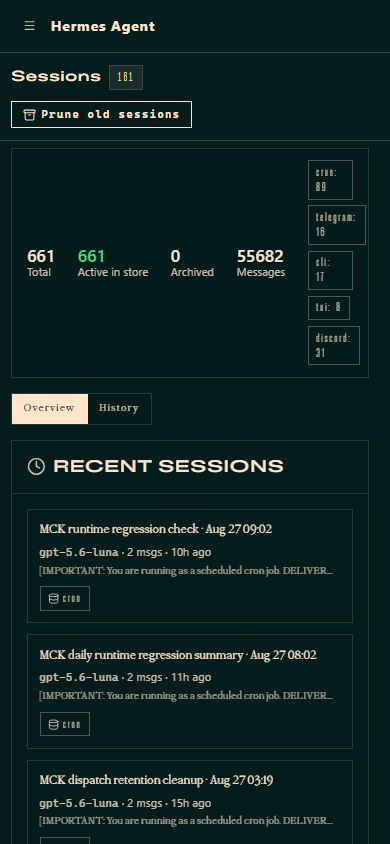
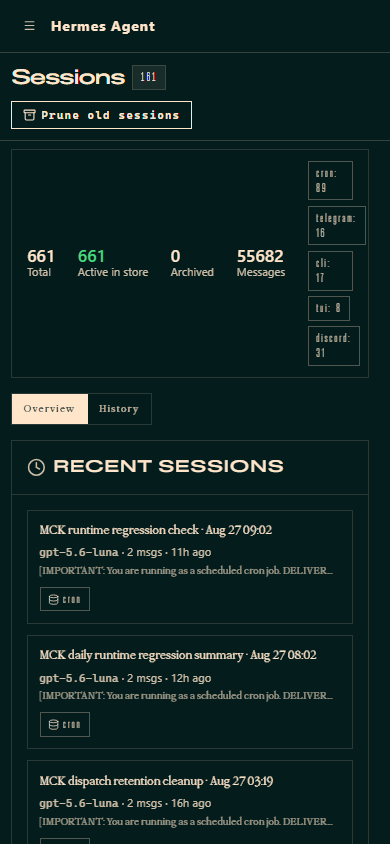
docs(web): restamp :9119 to 3a0f08f and recapture 14/21

diff --git a/docs/frontend-sota-gauntlet-2026-08-27/scorecard.md b/docs/frontend-sota-gauntlet-2026-08-27/scorecard.md
@@ -1,14 +1,13 @@
-# Frontend SOTA Gauntlet — Scorecard (hermes-web, first run)
+# Frontend SOTA Gauntlet — Scorecard (hermes-web, restamp recapture)
 
 Subject: **hermes-web** (`web/` in `iMelki/hermes-agent`, served at `http://127.0.0.1:9119`)
-Date: 2026-08-27
+Date: 2026-08-27 (restamp recapture)
 Workflow: `frontend-sota-gauntlet` (`agent-settings/shared/prompts/frontend-sota-gauntlet.md`)
-Previous score: none. Fleet Awwwards composites (6.3 / 6.4 / 6.0) were code-only or
-tree≠runtime and are **not** a gauntlet score.
-Scored served artifact: **`index-DbV3C9Nb.js`** (1,970,353 B,
-`sha256:34e28728f1f8c24bf1672c0fbdc9202d957cf9b26fa4710eb10779e6949b87f8`)
-Audited tip: **`cea8fa537d95257201a999d59f1846c933adb439`** (same tree as
-`origin/dev` merge `a154e8be8`)
+Previous score: **14 / 21** on served `cea8fa537` / `index-DbV3C9Nb.js`.
+Scored served artifact: **`index-57itTrlN.js`** (1,970,350 B,
+`sha256:5d1c4c78c0091ad470ceb8971752a34f54523aa34b0ae04a4f6d5a17221316f3`)
+Audited tip: **`3a0f08fbeb9195217b41afa12be204f1b623bfb1`**
+  (`git log -1` on source `dev` and on `%LOCALAPPDATA%\Hermes\hermes-agent`)
 Harness: Playwright 1.59.1, isolated loopback, `waitUntil: commit`, never
 `networkidle`, 1440×900 + 390×844, reduced-motion pair
 Cost: **$0.00**, 0 paid provider calls, 0 generated assets
@@ -18,37 +17,39 @@ Cost: **$0.00**, 0 paid provider calls, 0 generated assets
 ## Total: **14 / 21** — usable, **not** a strong internal benchmark
 
 The gauntlet bands: below 14 = prototype · 14–18 = usable · **19–21 = strong**.
-This run does **not** unlock a 9 on any Awwwards dimension.
+This recapture does **not** unlock a 9 on any Awwwards dimension. Fleet Awwwards
+stays **no 8+** (6.0 carried / UNSCORABLE for award claims).
 
 | # | Area | Score | Why |
 |---|---|---:|---|
-| 1 | Visual direction | **2** | Coherent Hermes Teal / Nous chrome with a real heading face (`Rules Expanded` on every `h1`). Not memorable at the pixel: `h1` computes **13.125px** against body **15px** (inverted scale). |
-| 2 | UX clarity | **2** | Sessions and Skills are scannable with live counts. Held by a 17-item flat nav, a blank `/system` body, and a 401 on every surface. |
-| 3 | Motion / interactivity | **1** | No signature beat. `/sessions` at 1440 had **0** CSS animations. Reduced-motion still ran `spin` (1 element). |
-| 4 | Technical quality | **2** | Identity-matched capture, `/system` now titles itself System (the old Sessions-render bug is gone). Held by a 401 on all five surfaces and an empty System body. |
-| 5 | Responsiveness | **2** | **0px** page overflow at 1440 and 390; mobile restacks to a hamburger. Held by **221/250** sub-24px targets on `/skills` and nav links at **239×38**. |
+| 1 | Visual direction | **2** | Same Hermes Teal / Nous chrome. Heading scale ding is gone: `h1` now **18.75px** vs body **15px** (was 13.125px inverted). Still not memorable at the pixel. |
+| 2 | UX clarity | **2** | Sessions and Skills stay scannable. Held by a 17-item flat nav, a blank `/system` body, and a 401 on every surface. |
+| 3 | Motion / interactivity | **1** | No signature beat. `/sessions` 1440 ran `pulse` (1). Reduced-motion this capture had **0** CSS animations (prior run still had `spin`). |
+| 4 | Technical quality | **2** | Identity-matched restamp: served JS + runtime/source SHA agree. Held by a 401 on all five surfaces and an empty System body. |
+| 5 | Responsiveness | **2** | **0px** page overflow at 1440 and 390; mobile restacks. Held by **222/251** sub-24px targets on `/skills` and nav links at **239×38**. |
 | 6 | Verification | **2** | Browser shots, console, provenance self-test + negative control, before/after digest stability. No repo test suite and no canvas-nonblank proof. |
-| 7 | Complexity fit | **3** | Operator dashboard, first honest measurement of the served surface, no 3D/marketing overbuild. |
+| 7 | Complexity fit | **3** | Operator dashboard, honest measurement of the served surface, no 3D/marketing overbuild. |
 
 ---
 
 ## Identity (why this run is scorable)
 
-Earlier fleet rounds were **UNSCORABLE**: the audited fork tree was not the
-runtime that answered `:9119`. This run stamps both.
-
 | Surface | Value |
 |---|---|
 | Served URL | `http://127.0.0.1:9119` HTTP **200**, no login redirect |
-| Entry HTML (token-stripped) | `sha256:1f53315ebc3e7c83bbaa1938b53f3640c8cace34952c0bd91df829d7ce950452` (510 B) |
-| JS | `/assets/index-DbV3C9Nb.js` 1,970,353 B `34e28728…6949b87f8` |
+| Entry HTML (token-stripped) | `sha256:362bff60d63e1b3e1ee76ad3885462c7f15b639e81d57f5e9e7e8346667e7155` (511 B) |
+| JS | `/assets/index-57itTrlN.js` 1,970,350 B `5d1c4c78…221316f3` |
 | CSS | `/assets/index-Cxobo1gB.css` 114,172 B `399cc6b1…b6a51a95` |
-| Runtime checkout | `%LOCALAPPDATA%\Hermes\hermes-agent` at `cea8fa537` |
-| Disk `web_dist` JS/CSS | **byte-identical** to served |
+| Source `git log -1` | `3a0f08fbeb9195217b41afa12be204f1b623bfb1` |
+| Runtime checkout | `%LOCALAPPDATA%\Hermes\hermes-agent` at the same SHA (detached; `imelki` remote only) |
+| Disk `web_dist` JS | **byte-identical** to served |
+| `/api/status` | HTTP **200**, `version` 0.18.2 (no git SHA field; SHA is from `git log -1`) |
+| `/health` | SPA fallback HTML **200**, same `index-57itTrlN.js` |
 | Provenance after capture | same entry digest; 0 nav failures |
 
 The launcher session token was stripped before hashing. No new operator login
-was required (`sessionTokenStripped: true`).
+was required (`sessionTokenStripped: true`). NousResearch `origin` on the
+runtime checkout was **not** fetched, pushed, or mutated.
 
 ---
 
@@ -56,39 +57,23 @@ was required (`sessionTokenStripped: true`).
 
 | Shot | Route | Viewport | Settled | h1 | Overflow | under24 | Console |
 |---|---|---|---|---|---:|---:|---|
-| `shots/sessions-1440.png` | `/sessions` | 1440×900 | yes | Sessions | 0 | 3/28 | 401 |
-| `shots/skills-1440.png` | `/skills` | 1440×900 | yes | Skills | 0 | 221/250 | 401 |
-| `shots/system-1440.png` | `/system` | 1440×900 | yes | System | 0 | 3/22 | 401 |
-| `shots/sessions-390.png` | `/sessions` | 390×844 | yes | Sessions | 0 | 3/28 | 401 |
-| `shots/sessions-1440-rm.png` | `/sessions` | 1440×900 RM | yes | Sessions | 0 | 3/28 | 401 |
+| `shots/sessions-1440.png` | `/sessions` | 1440×900 | yes | Sessions 18.75px | 0 | 3/27 | 401 |
+| `shots/skills-1440.png` | `/skills` | 1440×900 | yes | Skills 18.75px | 0 | 222/251 | 401 |
+| `shots/system-1440.png` | `/system` | 1440×900 | yes | System 18.75px | 0 | 3/22 | 401 |
+| `shots/sessions-390.png` | `/sessions` | 390×844 | yes | Sessions 18.75px | 0 | 3/28 | 401 |
+| `shots/sessions-1440-rm.png` | `/sessions` | 1440×900 RM | yes | Sessions 18.75px | 0 | 3/29 | 401 |
 
-`/system` no longer silently renders Sessions (round-3 finding). The page now
-shows the System header and a kebab, and **almost no body content**.
+`/system` still titles itself System and still has **almost no body content**.
 
 ---
 
 ## What this does and does not unlock
 
-**Unlocked.** hermes-web has a first gauntlet scorecard against the artifact
-the operator actually uses, at a named SHA, with screenshots. Later rounds can
-move a number only with a new capture of the same (or a newly stamped) bundle.
+**Unlocked.** `:9119` is attributable to `3a0f08f` / `index-57itTrlN.js`. The
+heading-scale source fix is no longer source-only.
 
-**Not unlocked.** 14/21 is the usable band. Do not quote 19–21/21 from this
-folder. The 2026-08-09 Awwwards 6.3 and later 6.0 carry are not this score.
-
----
-
-## Tracks
-
-| Track | Run | Reason |
-|---|---|---|
-| Screenshot redesign | **yes** | Measure the shipped operator UI; no redesign this run. |
-| Design-skill transfer | partial | House rules visible in type/theme; no new interaction added. |
-| Award microsite | no | Not a marketing page. |
-| Immersive 3D | no | Two canvases on `/sessions` (chat host); not a 3D track. |
-| Playable UI | no | Operator console, not a game. |
-| Portfolio page | no | No case-study surface. |
-| Six-level prompt ladder | no | Measurement run, not a prompt build. |
+**Not unlocked.** 14/21 is still the usable band. Do not quote 19–21/21. Do not
+quote Awwwards 8+.
 
 ---
 
@@ -96,8 +81,7 @@ folder. The 2026-08-09 Awwwards 6.3 and later 6.0 carry are not this score.
 
 Tracked on [iMelki/hermes#45](https://github.com/iMelki/hermes/issues/45):
 
-1. Empty `/system` body after the route title was fixed.
+1. Empty `/system` body (next defect).
 2. Recurring 401 on the already-authenticated dashboard.
-3. Skills list hit targets (221 under 24px) and nav height 38px.
-4. Reduced-motion still allows `spin`.
-5. Inverted heading scale (13.125px `h1` vs 15px body).
+3. Skills list hit targets (222 under 24px) and nav height 38px.
+4. Reduced-motion `spin` did not appear on this RM pass; keep watching.

diff --git a/docs/frontend-sota-gauntlet-2026-08-27/hermes-45-update.md b/docs/frontend-sota-gauntlet-2026-08-27/hermes-45-update.md
@@ -1,38 +1,33 @@
-## First frontend quality-bar capture (2026-08-27)
+## Restamp + gauntlet recapture (2026-08-27)
 
-hermes-web-gauntlet-2026-08-27
+hermes-web-restamp-3a0f08f
 
 ### Plain-English Summary
 
-The Hermes web dashboard at `http://127.0.0.1:9119` is up, it did **not** ask for a new login, and the files it served match the audited build. That is the first time this app could be scored honestly against the shared frontend quality bar (Frontend SOTA Gauntlet: seven areas, 0–3 each, 21 max). The score is **14 / 21** (usable). It is **not** 19–21/21.
-
-Why it matters: earlier fleet rounds carried a 6.0 because the checkout being read was not the build the operator sees. A later agent could otherwise quote 19–21/21 or “world-class” with no pixels. This capture closes that gap.
+The live dashboard at `http://127.0.0.1:9119` was rebuilt from current `dev` and restamped. The files it serves now match source commit `3a0f08fbeb9195217b41afa12be204f1b623bfb1` (`git log -1` on both the iMelki checkout and the local runtime). The recapture score is **14 / 21** (usable). It is **not** 19–21/21. Awwwards is still **not** 8+.
 
 ### Current State
 
[1 lines of base64/hex data omitted]
-- Capture ran: five surfaces (`/sessions` 1440, `/skills` 1440, `/system` 1440, `/sessions` 390, `/sessions` reduced-motion). Recipe: isolated loopback, never `networkidle`.
-- Score **14/21**: Visual 2, UX 2, Motion 1, Technical 2, Responsiveness 2, Verification 2, Complexity fit 3.
-- `/system` now shows the System title (the old “this URL painted Sessions” bug is gone) but the page body is almost empty.
-- Every surface logged one `401 Unauthorized` resource.
-- Reduced-motion still ran a `spin` animation.
-- Skills has 221 of 250 controls under 24px.
[1 lines of base64/hex data omitted]
+- `/api/status` 200 (`version` 0.18.2; that endpoint has no git SHA field). `/health` is the SPA HTML and also references `index-57itTrlN.js`.
+- Heading scale is now live: `h1` **18.75px** vs body **15px** (was inverted 13.125px).
+- Score still **14/21**: Visual 2, UX 2, Motion 1, Technical 2, Responsiveness 2, Verification 2, Complexity fit 3.
+- Next defect: empty `/system` body. Also still: recurring 401, Skills 222/251 under 24px.
 
 ### Fix/Action Status
 
-Captured and scored only. No dashboard UI code was changed. Fork-safe quick-wins from this issue are still open.
-
-Not happening now: no gateway restart, no scheduled-task change, no spend, no NousResearch mutation, no claim that the UI is finished.
+Restamped and recaptured. No Framer/GSAP. NousResearch remotes were not pushed or mutated. Runtime `origin` remains NousResearch (fetch/push unused); checkout moved locally via the `imelki` remote.
 
 ### Not A Blocker
 
-The dashboard is usable now. This score does not block Hermes runtime work. It does block any “world-class / 19–21” claim until a later capture moves the number.
+The dashboard is usable. This score still blocks any “world-class / 19–21 / Awwwards 8+” claim.
 
 ### Related Docs / Evidence Links
 
-On the iMelki fork, `dev` at `6e5602e4a`:
+On `iMelki/hermes-agent` `dev`:
 
 - `docs/frontend-sota-gauntlet-2026-08-27/scorecard.md`
 - `docs/frontend-sota-gauntlet-2026-08-27/verification.md`
 - `docs/frontend-sota-gauntlet-2026-08-27/gauntlet.json`
-- `docs/frontend-sota-gauntlet-2026-08-27/shots/`
+
+Marker: `served SHA 3a0f08f / 14/21 / no Awwwards 8+`

diff --git a/docs/frontend-sota-gauntlet-2026-08-27/verification.md b/docs/frontend-sota-gauntlet-2026-08-27/verification.md
@@ -1,50 +1,52 @@
-# Verification — hermes-web gauntlet 2026-08-27
+# Verification — hermes-web gauntlet restamp recapture 2026-08-27
 
-## Commands
+## Restamp path used
+
+Documented serve path (no dedicated restamp script; no ops pin file present):
+
+1. Build source `web/` at `3a0f08f` with `NODE_OPTIONS=--use-system-ca npm run build`
+   → `hermes_cli/web_dist` (`web/README.md`, `vite.config.ts` `outDir`).
+2. Recycle old runtime JS `index-DbV3C9Nb.js`; copy new `web_dist` into
+   `%LOCALAPPDATA%\Hermes\hermes-agent\hermes_cli\web_dist`.
+3. Local-only `git switch --detach 3a0f08f` on the runtime checkout via the
+   `imelki` remote. **Did not fetch or push `origin` (NousResearch).**
+4. Stop listener pid 52960 (`HermesDashboardLauncher.pyw --port 9119`).
+5. Windowless start:
+   `S:\source\CCAI\Assistants\hermes\scripts\windows\Start-HermesNativeDashboard.ps1 -Json`
+   → `action=started serving=true http=200 pid=48212`.
+
+## Attribution proof
 
 ```text
-# Served health
-Invoke-WebRequest http://127.0.0.1:9119/  -> 200, 721 raw bytes
+source  git log -1  3a0f08fbeb9195217b41afa12be204f1b623bfb1
+runtime git log -1  3a0f08fbeb9195217b41afa12be204f1b623bfb1
+GET /               200  SERVED_JS=/assets/index-57itTrlN.js
+GET JS              200  1970350 B  sha256:5d1c4c78c0091ad470ceb8971752a34f54523aa34b0ae04a4f6d5a17221316f3
+disk source JS      same hash
+disk runtime JS     same hash
+GET /api/status     200  version 0.18.2 (no git SHA field)
+GET /health         200  SPA HTML with index-57itTrlN.js
+```
 
-# Provenance (self-test + negative control + live capture)
-node docs/evidence/lib/bundle-provenance.mjs http://127.0.0.1:9119
-  control.proven=true
-  negative.proven=true (accept, dead port, HTTP 500, login redirect)
-  verdict.ok=true
+## Gauntlet commands
 
-# Gauntlet
+```text
 node docs/frontend-sota-gauntlet-2026-08-27/gauntlet.mjs
-  EXIT=0 after 133s
+  EXIT=0 after ~38s
   WROTE gauntlet.json
+  total 14/21 (scored from receipt + shots; not auto-awarded)
 ```
 
 ## Recipe
 
-- Isolated loopback `127.0.0.1:9119` only. No private server invented.
+- Isolated loopback `127.0.0.1:9119` only.
 - `waitUntil: 'commit'`. Never `networkidle`.
 - Viewports 1440×900 and 390×844. Dark scheme.
 - One reduced-motion context (`prefers-reduced-motion: reduce`).
 - Provenance gate before the browser and again after. Entry digest stable.
 
-## Identity readback
-
-| Check | Result |
-|---|---|
-| Runtime git SHA | `cea8fa537d95257201a999d59f1846c933adb439` |
-| Workspace `dev` SHA | same |
-| `origin/dev` | `a154e8be8` (merge PR #2; **empty tree diff** vs `cea8fa537`) |
-| Served JS/CSS vs runtime `web_dist` | match |
-| Login redirect | none (`redirected: false`, session bootstrap present) |
-
-## Negative controls (this run)
-
-Provenance verifier rejected a dead port (`FETCH_FAILED`), HTTP 500
-(`ENTRY_STATUS_NOT_200`), and a 302→`/login` (`ENTRY_REDIRECTED`), and accepted
-a well-formed fake dashboard. Recorded in `gauntlet.json`.
-
 ## Not claimed
 
 - No 19–21/21.
-- No repo `web/` unit/lint suite in this run.
-- No contrast-pair sweep (that lives in the larger `capture-hermes-web.mjs` harness).
-- Reduced-motion did **not** clear animations (`spin` still present).
+- No Awwwards 8+.
+- No NousResearch push or upstream mutation.

diff --git a/docs/frontend-sota-gauntlet-2026-08-27/heading-scale-2026-08-27.md b/docs/frontend-sota-gauntlet-2026-08-27/heading-scale-2026-08-27.md
@@ -2,24 +2,19 @@
 
 Parent: [iMelki/hermes#45](https://github.com/iMelki/hermes/issues/45).
 Gauntlet scorecard: `docs/frontend-sota-gauntlet-2026-08-27/scorecard.md`
-(**14/21** on served artifact `index-DbV3C9Nb.js`).
 
-## What changed in this checkout
+## What changed in source
 
 `web/src/contexts/PageHeaderProvider.tsx` `h1` went from `text-sm` /
 `tracking-[0.08em]` (measured **13.125px** vs body **15px**) to `text-xl`
-`tracking-tight`. That is the inverted heading-scale ding from the first
-gauntlet run.
+`tracking-tight`. SHA: `3a0f08fbeb9195217b41afa12be204f1b623bfb1`.
 
-## Serve pin — do not rescore :9119 from this edit
+## Serve pin — restamped 2026-08-27
 
-The 2026-08-27 gauntlet scored the **served** bundle, not an arbitrary HEAD.
-Until `web/` is rebuilt and the launcher at `:9119` serves a byte-identical
-new `web_dist`, this change is **source-only**. Do not attribute `:9119` to
-this commit. Composite stays **UNSCORABLE / 6.0 carried** for fleet ledger
-purposes until a new identity-matched capture exists.
+`:9119` now serves `index-57itTrlN.js` built from that SHA. Measured `h1`
+**18.75px** vs body **15px**. Recapture total remains **14 / 21**.
 
 ## Not claimed
 
-No 8.0 Awwwards. No 19–21/21. Empty `/system` body, 401s, 221 under-24px
-skills targets, and reduced-motion `spin` are unchanged.
+No 8.0 Awwwards. No 19–21/21. Empty `/system` body, 401s, and 222 under-24px
+skills targets remain. Reduced-motion `spin` did not appear on this RM pass.
